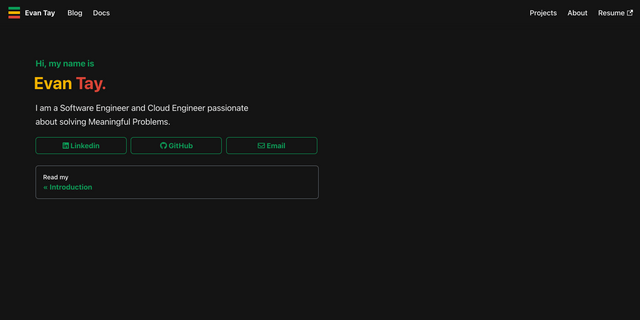
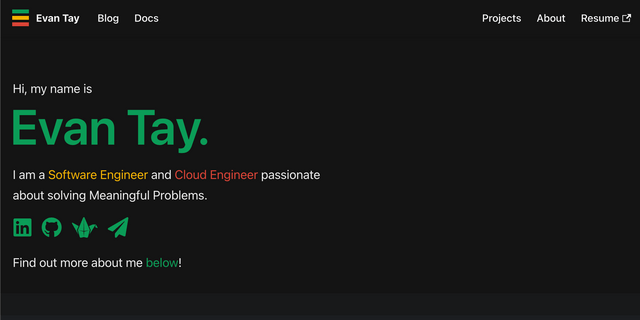
docs: update Evan Tay personal site showcase (#6855)
* docs: update evantay showcase image

* docs: update evnatay showcase title

* fix test

* retake photo

diff --git a/website/src/data/__tests__/user.test.ts b/website/src/data/__tests__/user.test.ts
@@ -27,11 +27,11 @@ expect.extend({
   toHaveGoodDimensions({width, height}: {width: number; height: number}) {
     // Put this one first because aspect ratio is harder to fix than resizing
     // (need to take another screenshot)
-    if (width / height < 0.5) {
+    if (width / height > 2) {
       return {
         pass: false,
         message: () =>
-          `The preview image's width is ${width} and height is ${height}. To make sure it takes up the entire container in our showcase card, it needs to have a minimum aspect ratio of 2:1. Please make your image taller.`,
+          `The preview image's width is ${width} and height is ${height}. To make sure it takes up the entire container in our showcase card, it needs to have an aspect ratio of no wider than 2:1. Please make your image taller.`,
       };
     } else if (width < 640) {
       return {

diff --git a/website/src/data/users.tsx b/website/src/data/users.tsx
@@ -559,7 +559,7 @@ const Users: User[] = [
     tags: ['opensource', 'personal', 'i18n'],
   },
   {
-    title: "Evan Tay's Personal Website",
+    title: "KayaFolio",
     description:
       "A Software Engineer's blog, documentation and project portfolio.",
     preview: require('./showcase/evantay.png'),
